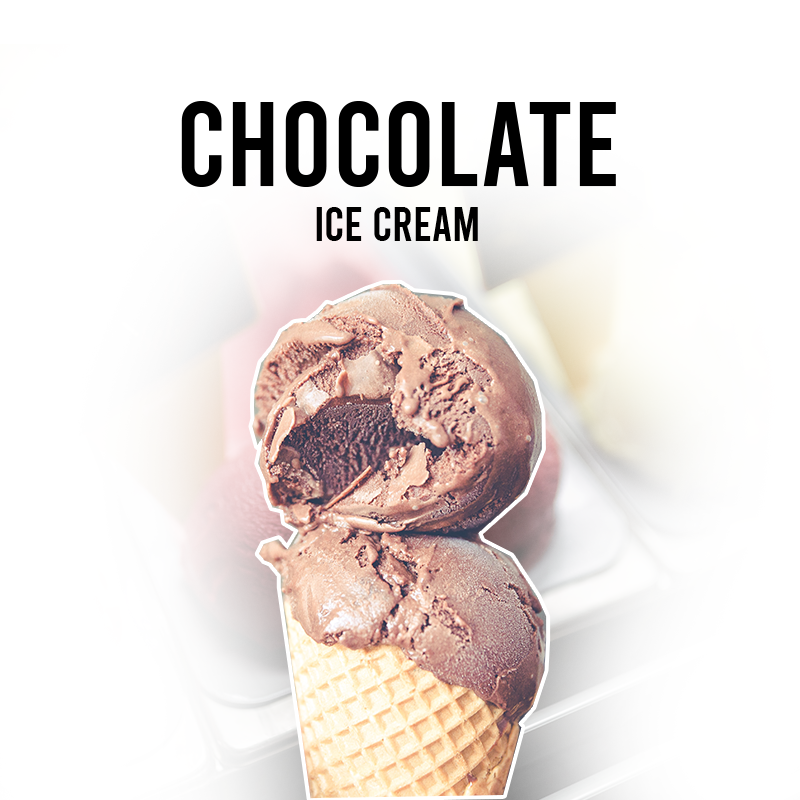
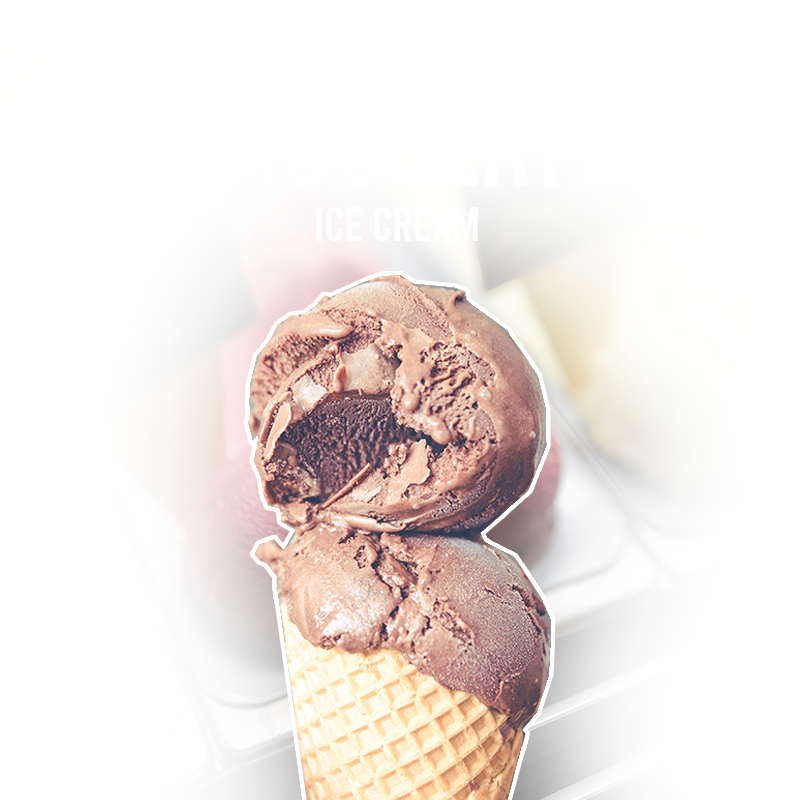
sliderUpdate

Changed region(s): [[0.2812, 0.3438, 0.7188, 1.0], [0.2188, 0.125, 0.7812, 0.3125]]

diff --git a/css/style.css b/css/style.css
@@ -1,18 +1,115 @@
-.navbar{
-    /* background-image: linear-gradient(to right,#a517ba,#5f1782); */
+body{
+    animation: fadeInAnimation ease 3s;
+    animation-iteration-count: 1;
+    animation-fill-mode: forwards;
+}
+@keyframes fadeInAnimation{
+    0%{
+        opacity: 0;
+    }
+    100%{
+        opacity: 1;
+    }
+}
+
+.wht-blk{
+    color:white;
+    
 }
 
 .cov-title{
     font-size: 40px;
     font-weight: 600;
-    margin-top: 100px;
+    /* margin-top: 100px; */
 }
+
+.rect-curv{
+    background-color: #2e856e;
+    height: 500px;
+    width: 500px;
+    border-bottom-left-radius: 25px ;
+    border-bottom-right-radius: 25px ;
+    position: absolute;
+    right: 150px;
+
+}
+/* .h-n-signup{
+    
+    position: absolute;
+    text-decoration: none;
+    color: black;
+    border:2px solid transparent;
+    border-radius: 20px;
+    background-image: linear-gradient(transparent,transparent),radial-gradient(circle at top left,#ffffff,#006eff);
+    background-origin: border-box;
+    background-clip: content-box,border-box;
+} */
+
+/* .h-n-signup{
+    display: block;
+    padding: 4px 22px;
+} */
+
+.slider-cap{
+    text-align: left;
+    color:rgb(0, 0, 0);
+}
+
+.btn-row{
+    display: inline-flex;
+    top:20px;
+
+}
+
+.btn-row .btn{
+    width: 120px;
+    height: 50px;
+    text-decoration: none;
+    border: 1px solid #2e856e;
+    border-radius: 25px;
+    border-top-left-radius: 0%;
+    text-align: center;
+    line-height: 35px;
+    margin-right: 10px;
+    font-family: sans-serif;
+    position: relative;
+}
+
+.btn-row .btn .btn-span{
+    background: #2e856e ;
+    border-radius: 25px;
+    border-top-left-radius: 0%;
+    position: absolute;
+    opacity: 30%;
+    left: 0;
+    top: 0;
+    z-index: -1;
+}
+
+.to-right{
+    width: 0px;
+    height: 50px;
+}
+
+.btn-row .btn:hover .to-right {
+    width: 120px;
+    transition: 0.8s;
+}
+
+
 
 @media only screen and (min-width:600px){
     .navbar-brand{
-        padding-left: 5rem;
+        padding-left: 10rem;
     }
     .navbar-nav{
-        padding-right: 3rem;
+        padding-right: 15rem;
+    }
+}
+
+@media only screen and (max-width:1000px){
+
+    .rect-curv{
+        opacity: 0%;
     }
 }

diff --git a/application/views/main.php b/application/views/main.php
@@ -4,6 +4,7 @@
     <meta charset='utf-8'>
     <meta http-equiv='X-UA-Compatible' content='IE=edge'>
     <title>FROZEN</title>
+    <link rel="icon" href="src/frozen.jpg">
     <meta name='viewport' content='width=device-width, initial-scale=1'>
     <script src='jquery/jquery-3.4.1.min.js'></script>
     <script src='bootstrap/js/bootstrap.min.js'></script>
@@ -12,61 +13,88 @@
     <link rel='stylesheet' type='text/css' media='screen' href='css/style.css'>
 </head>
 <body>
+  <div class="rect-curv"></div>
     <!-- navigation -->
     <nav class="navbar navbar-expand-lg navbar-light ">
-        <a class="navbar-brand" href="#"><img src="src/frozen.jpg" style="height: 30px;"></a>
+        <a class="navbar-brand" href="#">
+          <!-- <img src="src/frozen.jpg" style="height: 30px;"> -->
+        </a>
         <button class="navbar-toggler" type="button" data-toggle="collapse" data-target="#navbarNav" aria-controls="navbarNav" aria-expanded="false" aria-label="Toggle navigation">
           <span class="navbar-toggler-icon"></span>
         </button>
         <div class="collapse navbar-collapse" id="navbarNav">
           <ul class="navbar-nav ml-auto">
             <li class="nav-item active">
-              <a class="nav-link" href="temp.html">Home <span class="sr-only">(current)</span></a>
+              <a class="nav-link wht-blk" href="temp.html" >Ice Cream Home</a>
             </li>
             <li class="nav-item">
-              <a class="nav-link" href="#">Features</a>
+              <a class="nav-link wht-blk" href="#">Store</a>
             </li>
             <li class="nav-item">
-              <a class="nav-link" href="#">Pricing</a>
+              <a class="nav-link wht-blk" href="#">About Us</a>
             </li>
             <li class="nav-item">
-              <a class="nav-link disabled" href="#">Disabled</a>
+              <a class="nav-link wht-blk" href="#">Hashan</a>
             </li>
           </ul>
         </div>
     </nav>
     <!-- end of navigation -->
     <!-- mid content -->
+    
     <div class="container">
       <div class="row">
         <div class="col-md-6">
+          <img src="src/frozen.jpg" style="height: 120px;margin-top: 60px;">
             <p class="cov-title">FROZEN</p>
-            <p>Lorem ipsum dolor sit amet consectetur adipisicing elit. Earum praesentium in nobis optio labore repellendus dicta voluptatum corrupti aliquid itaque magni animi, temporibus a consequuntur doloribus delectus sunt! Voluptate, ratione!</p>
+            <p>Lorem ipsum dolor sit amet consectetur adipisicing elit. Earum praesentium in 
+            nobis optio labore repellendus dicta voluptatum corrupti aliquid
+            itaque magni animi, temporibus a consequuntur doloribus delectus sunt! Voluptate, ratione!
+            </p>
+            <br>
+            <div class="btn-row">
+              <a href="#" class="btn">LogIn<span class="btn-span to-right"></span></a>
+              <a href="#" class="btn" style="background-color:#8abaae">SignUp<span class="btn-span to-right"></span></a>
+            </div>
         </div>
         <div class="col-md-6">
           <div id="carouselExampleControls" class="carousel slide" data-ride="carousel">
             <div class="carousel-inner">
               <div class="carousel-item active">
                 <img class="d-block w-100" src="src/latest_product/slide1.png" alt="First slide">
+                <div class="carousel-caption">
+                  <h3 class="slider-cap">&#9733 &#9733 &#9733 &#9733 &#9733 &#9733 </h3>
+                  <p class="slider-cap">Best Ice Cream in the Valley,, Perfect</p>
+                </div>
               </div>
               <div class="carousel-item">
                 <img class="d-block w-100" src="src/latest_product/slide1.png" alt="Second slide">
+                <div class="carousel-caption">
+                  <h3 class="slider-cap">&#9733 &#9733 &#9733 &#9733 &#9733 &#9733 </h3>
+                  <p class="slider-cap">Best Ice Cream in the Valley,, Perfect</p>
+                </div>
               </div>
               <div class="carousel-item">
                 <img class="d-block w-100" src="src/latest_product/slide1.png" alt="Third slide">
+                <div class="carousel-caption">
+                  <h3 class="slider-cap">&#9733 &#9733 &#9733 &#9733 &#9733 &#9733 </h3>
+                  <p class="slider-cap">Best Ice Cream in the Valley,, Perfect</p>
+                </div>
               </div>
             </div>
             <a class="carousel-control-prev" href="#carouselExampleControls" role="button" data-slide="prev">
               <span class="carousel-control-prev-icon" aria-hidden="true"></span>
-              <span class="sr-only">Previous</span>
             </a>
             <a class="carousel-control-next" href="#carouselExampleControls" role="button" data-slide="next">
               <span class="carousel-control-next-icon" aria-hidden="true"></span>
-              <span class="sr-only">Next</span>
             </a>
           </div>
         </div>
       </div>
+  </div>
+  <div>
+    <br>
+    <br>
   </div>
 
 </body>
